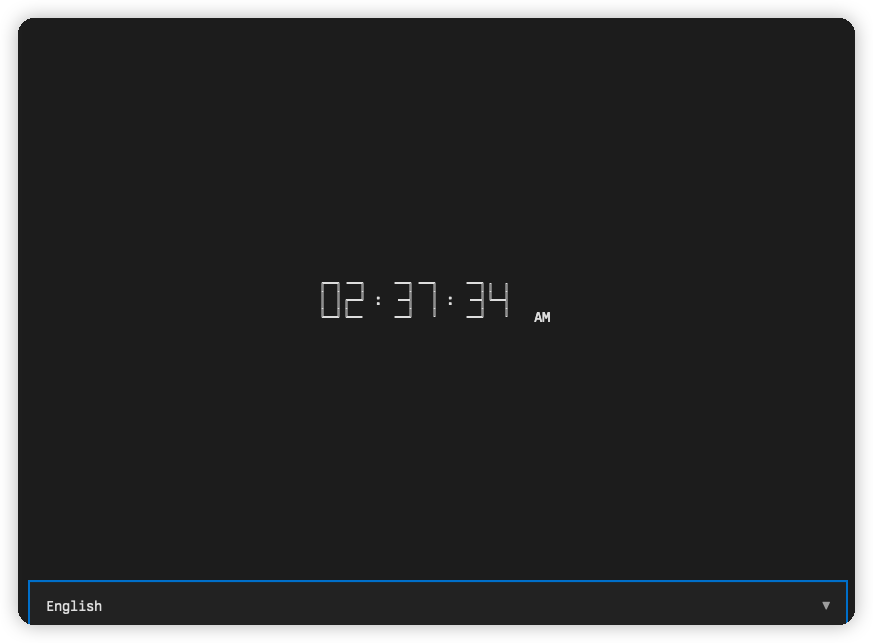
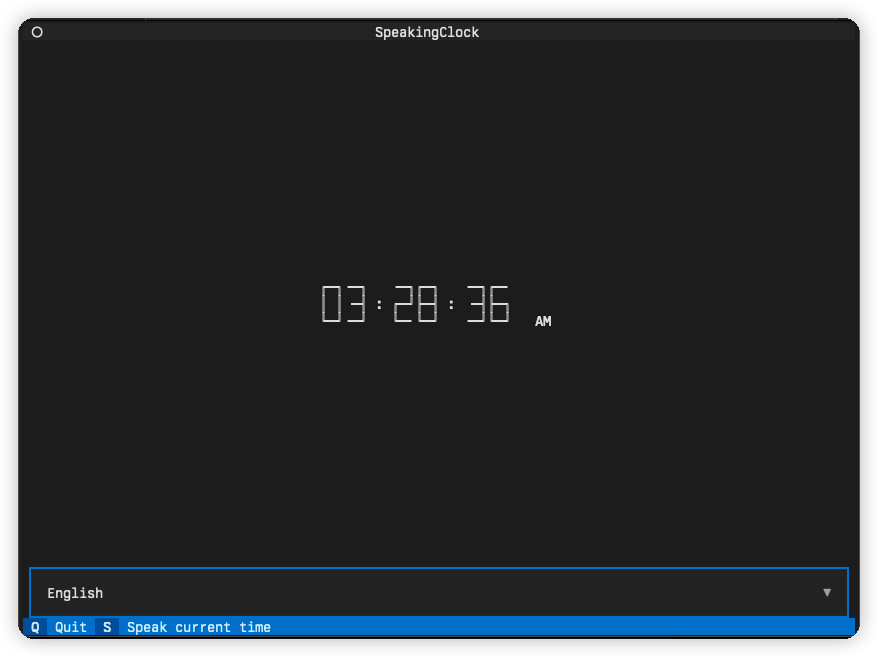
add header and footer

diff --git a/tui/tui.py b/tui/tui.py
@@ -4,12 +4,12 @@ from typing import Dict
 
 from textual import on
 from textual.app import App, ComposeResult
-from textual.widgets import Digits, Select
+from textual.widgets import Digits, Footer, Header, Select
 
 import speaker
 
 
-class ClockApp(App):
+class SpeakingClock(App):
     CSS = """
     Screen {
         align: center middle;
@@ -19,6 +19,7 @@ class ClockApp(App):
     }
     #selector {
         dock: bottom;
+        height: 4.4;
     }
     """
 
@@ -38,8 +39,10 @@ class ClockApp(App):
         self.speakers = speakers
 
     def compose(self) -> ComposeResult:
+        yield Header()
         yield Digits("", id="clock")
-        yield Select(ClockApp.languages.items(), id="selector", value="en")
+        yield Select(SpeakingClock.languages.items(), id="selector", value="en")
+        yield Footer()
 
     def on_ready(self) -> None:
         self.update_clock()
@@ -66,7 +69,7 @@ def main() -> None:
             speakers[lang] = speaker.EnglishMashupSpeaker(audio_dir)
         elif lang == "zh":
             speakers[lang] = speaker.ChineseMashupSpeaker(audio_dir)
-    app = ClockApp(speakers)
+    app = SpeakingClock(speakers)
     app.run()
 
 

diff --git a/tui/README.md b/tui/README.md
@@ -37,7 +37,7 @@ python tui.py
 
 ![](./tui_screenshot.png)
 
-Upon execution, the current time will be prominently displayed in the terminal's center. Users can select the desired language via the selector at the bottom. The selected language will influence the audible announcement of the time. We employ [`gTTs`](https://github.com/pndurette/gTTS) for text-to-speech functionality.
+Upon execution, the current time will be prominently displayed in the terminal's center. Users can select the desired language via the selector at the bottom. The selected language will influence the audible announcement of the time. We employ [`gTTs`](https://github.com/pndurette/gTTS) for text-to-speech functionality. Currently there are only two ways to interact with this application as showing on the footer of it: press `s` to speak current time or press `q` to quit it.
 
 ### Advanced: Audio Mashup
 
